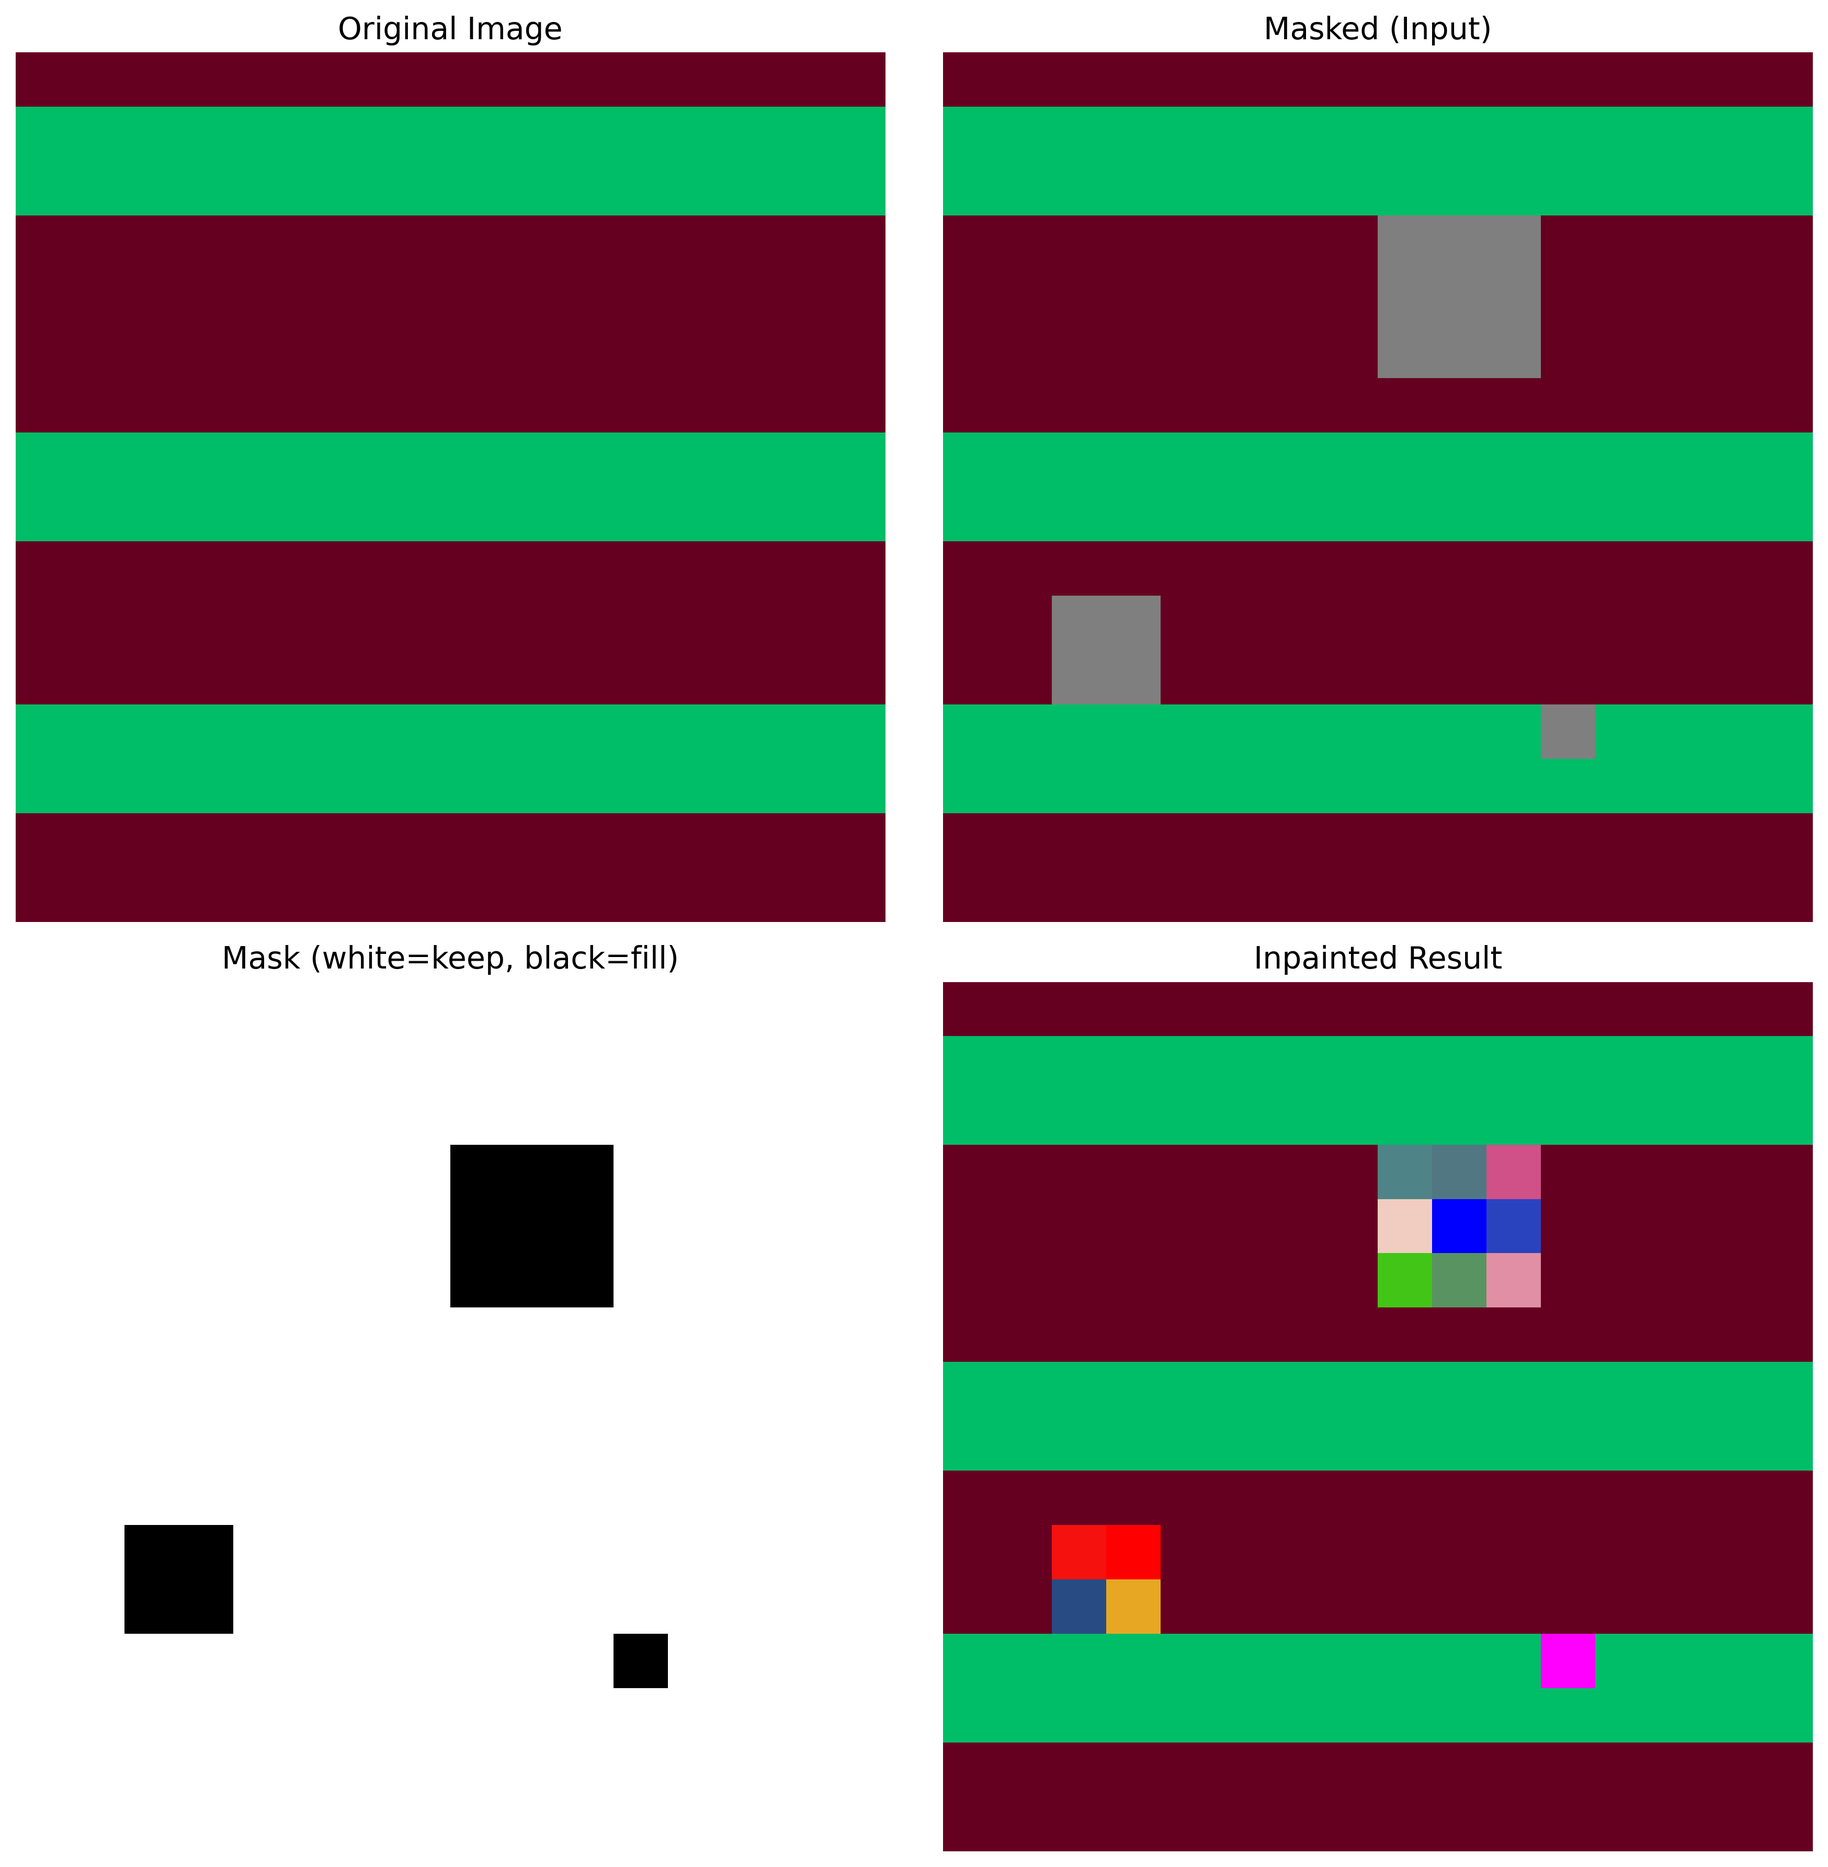
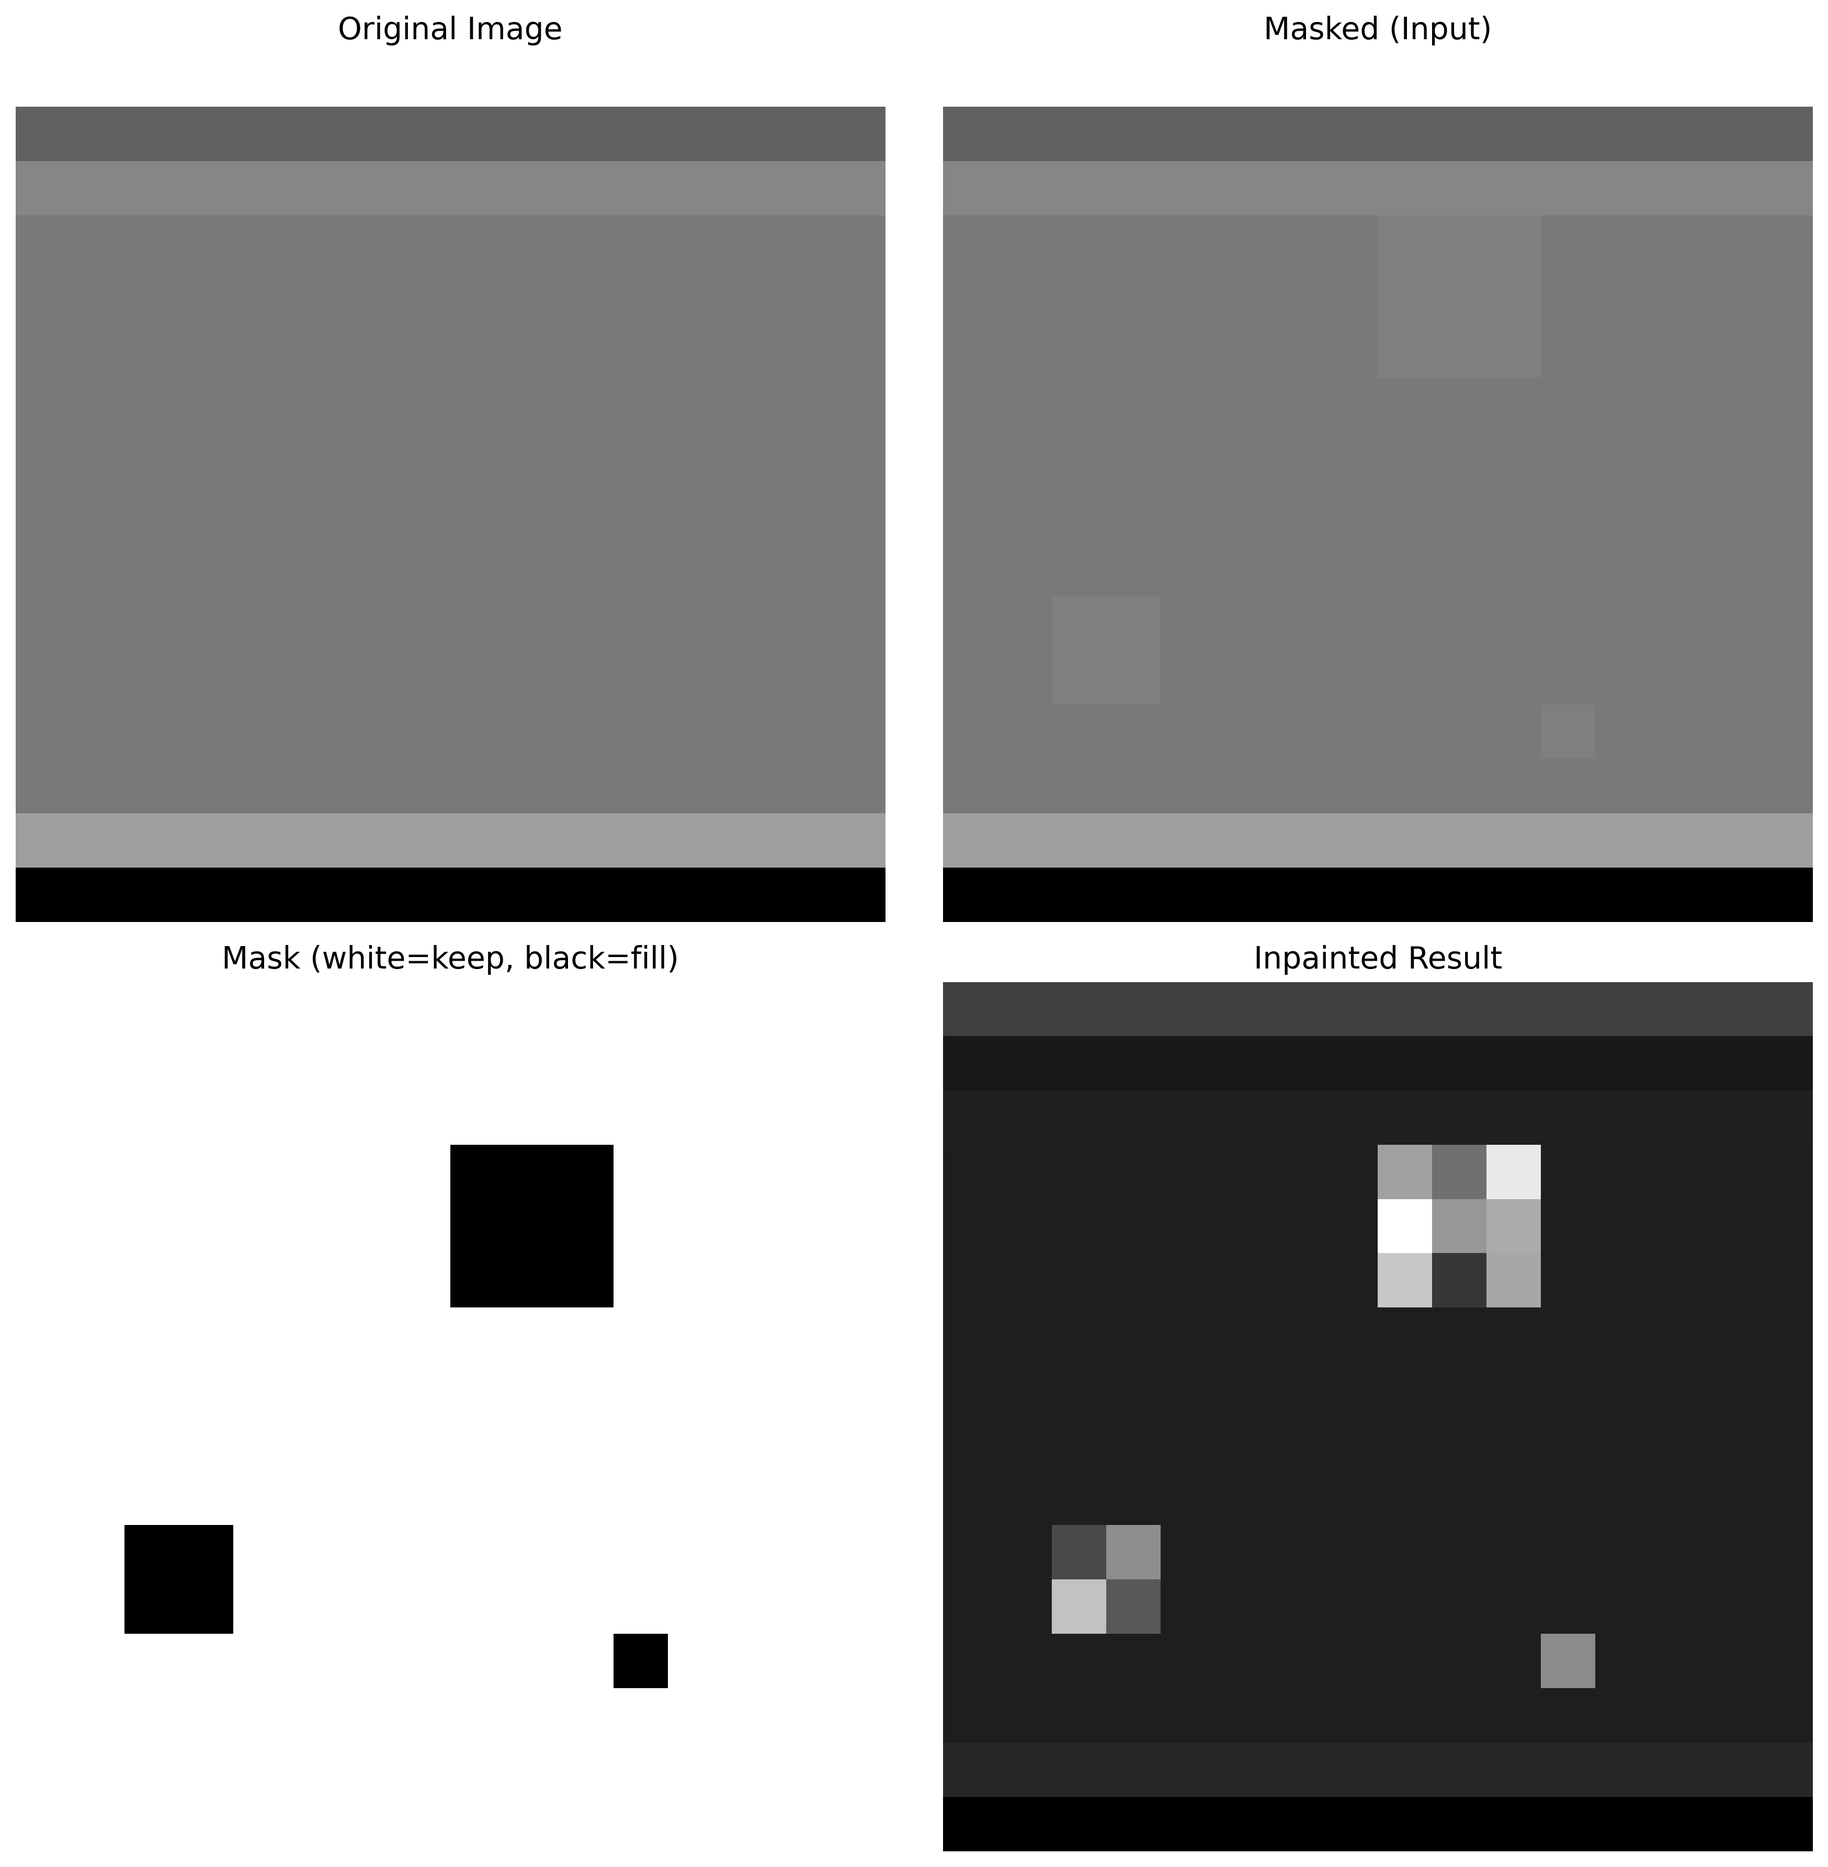
Using RED and blue

diff --git a/generate_patterns.py b/generate_patterns.py
@@ -3,6 +3,8 @@ Generate Synthetic Pattern Dataset
 ===================================
 Creates a diverse dataset of geometric patterns for inpainting training.
 
+Patterns use RED and BLUE colors for clear distinction.
+
 Patterns include:
 - Checkerboards (various sizes)
 - Stripes (horizontal, vertical, diagonal, varying widths)
@@ -21,53 +23,66 @@ from pathlib import Path
 from tqdm import tqdm
 
 
+# Color definitions: RED and BLUE
+RED = (255, 0, 0)
+BLUE = (0, 0, 255)
+
+
 def create_checkerboard(size=128, square_size=None):
-    """Create a checkerboard pattern."""
+    """Create a checkerboard pattern with red and blue."""
     if square_size is None:
         square_size = random.choice([4, 8, 16, 32])
     
-    img = np.zeros((size, size), dtype=np.uint8)
+    img = np.zeros((size, size, 3), dtype=np.uint8)
     for i in range(0, size, square_size):
         for j in range(0, size, square_size):
             if ((i // square_size) + (j // square_size)) % 2 == 0:
-                img[i:i+square_size, j:j+square_size] = 255
+                img[i:i+square_size, j:j+square_size] = RED
+            else:
+                img[i:i+square_size, j:j+square_size] = BLUE
     
     return img
 
 
 def create_stripes(size=128, orientation='horizontal', stripe_width=None):
-    """Create striped pattern."""
+    """Create striped pattern with red and blue."""
     if stripe_width is None:
         stripe_width = random.choice([2, 4, 8, 16, 32])
     
-    img = np.zeros((size, size), dtype=np.uint8)
+    img = np.zeros((size, size, 3), dtype=np.uint8)
     
     if orientation == 'horizontal':
         for i in range(0, size, stripe_width * 2):
-            img[i:i+stripe_width, :] = 255
+            img[i:i+stripe_width, :] = RED
+            if i + stripe_width < size:
+                img[i+stripe_width:i+stripe_width*2, :] = BLUE
     elif orientation == 'vertical':
         for j in range(0, size, stripe_width * 2):
-            img[:, j:j+stripe_width] = 255
+            img[:, j:j+stripe_width] = RED
+            if j + stripe_width < size:
+                img[:, j+stripe_width:j+stripe_width*2] = BLUE
     elif orientation == 'diagonal':
+        # Create diagonal stripes
+        img[:, :] = BLUE
         for i in range(-size, size * 2, stripe_width * 2):
             for x in range(size):
                 y = x + i
                 if 0 <= y < size:
                     for w in range(stripe_width):
                         if 0 <= y + w < size:
-                            img[y + w, x] = 255
+                            img[y + w, x] = RED
     
     return img
 
 
 def create_dots(size=128, dot_size=None, spacing=None):
-    """Create dot/circle pattern."""
+    """Create dot/circle pattern with red dots on blue background."""
     if dot_size is None:
         dot_size = random.choice([2, 4, 6, 8])
     if spacing is None:
         spacing = random.choice([12, 16, 20, 24, 32])
     
-    img = Image.new('L', (size, size), 0)
+    img = Image.new('RGB', (size, size), BLUE)
     draw = ImageDraw.Draw(img)
     
     for i in range(0, size, spacing):
@@ -76,34 +91,37 @@ def create_dots(size=128, dot_size=None, spacing=None):
             y0 = i - dot_size // 2
             x1 = j + dot_size // 2
             y1 = i + dot_size // 2
-            draw.ellipse([x0, y0, x1, y1], fill=255)
+            draw.ellipse([x0, y0, x1, y1], fill=RED)
     
     return np.array(img)
 
 
 def create_grid(size=128, line_width=None, spacing=None):
-    """Create grid pattern."""
+    """Create grid pattern with red lines on blue background."""
     if line_width is None:
         line_width = random.choice([1, 2, 3, 4])
     if spacing is None:
         spacing = random.choice([16, 20, 24, 32])
     
-    img = np.zeros((size, size), dtype=np.uint8)
+    img = np.zeros((size, size, 3), dtype=np.uint8)
+    img[:, :] = BLUE
     
     # Horizontal lines
     for i in range(0, size, spacing):
-        img[i:i+line_width, :] = 255
+        img[i:i+line_width, :] = RED
     
     # Vertical lines
     for j in range(0, size, spacing):
-        img[:, j:j+line_width] = 255
+        img[:, j:j+line_width] = RED
     
     return img
 
 
 def create_waves(size=128, orientation='horizontal'):
-    """Create wave pattern."""
-    img = np.zeros((size, size), dtype=np.uint8)
+    """Create wave pattern with red wave on blue background."""
+    img = np.zeros((size, size, 3), dtype=np.uint8)
+    img[:, :] = BLUE
+    
     amplitude = random.randint(10, 30)
     frequency = random.uniform(0.1, 0.3)
     thickness = random.choice([2, 4, 6, 8])
@@ -114,21 +132,21 @@ def create_waves(size=128, orientation='horizontal'):
             for t in range(-thickness//2, thickness//2 + 1):
                 y = y_center + t
                 if 0 <= y < size:
-                    img[y, x] = 255
+                    img[y, x] = RED
     else:  # vertical
         for y in range(size):
             x_center = int(size // 2 + amplitude * np.sin(frequency * y))
             for t in range(-thickness//2, thickness//2 + 1):
                 x = x_center + t
                 if 0 <= x < size:
-                    img[y, x] = 255
+                    img[y, x] = RED
     
     return img
 
 
 def create_concentric_circles(size=128):
-    """Create concentric circles."""
-    img = Image.new('L', (size, size), 0)
+    """Create concentric circles with red on blue background."""
+    img = Image.new('RGB', (size, size), BLUE)
     draw = ImageDraw.Draw(img)
     
     center = size // 2
@@ -139,14 +157,14 @@ def create_concentric_circles(size=128):
         radius = int(max_radius * (i + 1) / num_circles)
         draw.ellipse([center - radius, center - radius, 
                      center + radius, center + radius], 
-                     outline=255, width=random.choice([1, 2, 3]))
+                     outline=RED, width=random.choice([1, 2, 3]))
     
     return np.array(img)
 
 
 def create_concentric_squares(size=128):
-    """Create concentric squares."""
-    img = Image.new('L', (size, size), 0)
+    """Create concentric squares with red on blue background."""
+    img = Image.new('RGB', (size, size), BLUE)
     draw = ImageDraw.Draw(img)
     
     num_squares = random.randint(4, 8)
@@ -157,14 +175,16 @@ def create_concentric_squares(size=128):
         # Ensure we have valid coordinates
         if offset + line_width < size - offset:
             draw.rectangle([offset, offset, size - offset - 1, size - offset - 1], 
-                          outline=255, width=line_width)
+                          outline=RED, width=line_width)
     
     return np.array(img)
 
 
 def create_zigzag(size=128, orientation='horizontal'):
-    """Create zigzag pattern."""
-    img = np.zeros((size, size), dtype=np.uint8)
+    """Create zigzag pattern with red on blue background."""
+    img = np.zeros((size, size, 3), dtype=np.uint8)
+    img[:, :] = BLUE
+    
     amplitude = random.randint(8, 20)
     period = random.randint(16, 32)
     thickness = random.choice([2, 4, 6])
@@ -176,21 +196,21 @@ def create_zigzag(size=128, orientation='horizontal'):
             for t in range(-thickness//2, thickness//2 + 1):
                 y = y_center + t
                 if 0 <= y < size:
-                    img[y, x] = 255
+                    img[y, x] = RED
     else:
         for y in range(size):
             x_center = int(size // 2 + amplitude * (2 * ((y % period) / period) - 1))
             for t in range(-thickness//2, thickness//2 + 1):
                 x = x_center + t
                 if 0 <= x < size:
-                    img[y, x] = 255
+                    img[y, x] = RED
     
     return img
 
 
 def create_random_shapes(size=128):
-    """Create random geometric shapes."""
-    img = Image.new('L', (size, size), 0)
+    """Create random geometric shapes with red on blue background."""
+    img = Image.new('RGB', (size, size), BLUE)
     draw = ImageDraw.Draw(img)
     
     num_shapes = random.randint(3, 8)
@@ -202,12 +222,12 @@ def create_random_shapes(size=128):
         s = random.randint(10, 30)
         
         if shape_type == 'circle':
-            draw.ellipse([x - s, y - s, x + s, y + s], fill=255)
+            draw.ellipse([x - s, y - s, x + s, y + s], fill=RED)
         elif shape_type == 'rectangle':
-            draw.rectangle([x - s, y - s, x + s, y + s], fill=255)
+            draw.rectangle([x - s, y - s, x + s, y + s], fill=RED)
         else:  # triangle
             points = [(x, y - s), (x - s, y + s), (x + s, y + s)]
-            draw.polygon(points, fill=255)
+            draw.polygon(points, fill=RED)
     
     return np.array(img)
 
@@ -226,17 +246,6 @@ def create_mixed_pattern(size=128):
     else:
         img = create_grid(size)
     
-    # Optionally add another pattern with transparency
-    if random.random() > 0.5:
-        overlay_type = random.choice(['waves', 'concentric_circles'])
-        if overlay_type == 'waves':
-            overlay = create_waves(size, random.choice(['horizontal', 'vertical']))
-        else:
-            overlay = create_concentric_circles(size)
-        
-        # Blend
-        img = np.maximum(img, overlay // 2)
-    
     return img
 
 
@@ -251,6 +260,7 @@ def generate_pattern_dataset(output_dir='data', num_images=5000, size=128):
     print(f"Output: {output_path.absolute()}")
     print(f"Images: {num_images}")
     print(f"Size: {size}x{size}")
+    print(f"Colors: RED and BLUE")
     print()
     
     patterns = [
@@ -284,7 +294,7 @@ def generate_pattern_dataset(output_dir='data', num_images=5000, size=128):
         img_array = pattern_func(size)
         
         # Save
-        img = Image.fromarray(img_array, mode='L')
+        img = Image.fromarray(img_array, mode='RGB')
         img.save(output_path / f'pattern_{i:05d}_{pattern_name}.png')
     
     print("\n" + "=" * 60)
@@ -292,7 +302,7 @@ def generate_pattern_dataset(output_dir='data', num_images=5000, size=128):
     print("=" * 60)
     print(f"📊 Images: {num_images}")
     print(f"📁 Location: {output_path.absolute()}")
-    print(f"💾 Total size: ~{num_images * size * size / (1024*1024):.1f} MB")
+    print(f"💾 Total size: ~{num_images * size * size * 3 / (1024*1024):.1f} MB")
     print("\nYou can now run: python train_colab.py")
     print("=" * 60)
 

diff --git a/main/inpainting_inference.py b/main/inpainting_inference.py
@@ -17,12 +17,12 @@ from .utils import setup_cuda_device
 
 
 def load_and_preprocess_image(image_path: str, size: int = 16):
-    image = Image.open(image_path).convert('L')
+    image = Image.open(image_path).convert('RGB')
     
     transform = transforms.Compose([
         transforms.Resize((size, size), interpolation=transforms.InterpolationMode.LANCZOS),
         transforms.ToTensor(),
-        transforms.Normalize(mean=[0.5], std=[0.5])
+        transforms.Normalize(mean=[0.5, 0.5, 0.5], std=[0.5, 0.5, 0.5])
     ])
     
     return transform(image).unsqueeze(0)
@@ -107,8 +107,37 @@ def inpaint_image(image_path: str,
                 x = pred_x0
         
         result = x
+        
+        # Quantize to pure RED and BLUE colors in masked regions
+        result = quantize_to_red_blue(result, mask, device)
     
     display_results(image, masked_image, mask, result, save_result)
+    
+    return result
+
+
+def quantize_to_red_blue(image, mask, device):
+    """
+    Snap pixels in masked regions to pure RED or BLUE.
+    Uses Euclidean distance to determine closest color.
+    """
+    # Define pure colors in normalized space [-1, 1]
+    # RED = (1, -1, -1) and BLUE = (-1, -1, 1)
+    RED = torch.tensor([1.0, -1.0, -1.0], device=device).view(1, 3, 1, 1)
+    BLUE = torch.tensor([-1.0, -1.0, 1.0], device=device).view(1, 3, 1, 1)
+    
+    # Calculate distances to RED and BLUE
+    dist_to_red = torch.sum((image - RED) ** 2, dim=1, keepdim=True)
+    dist_to_blue = torch.sum((image - BLUE) ** 2, dim=1, keepdim=True)
+    
+    # Create mask for pixels closer to red
+    closer_to_red = dist_to_red < dist_to_blue
+    
+    # Create quantized version
+    quantized = torch.where(closer_to_red.expand_as(image), RED.expand_as(image), BLUE.expand_as(image))
+    
+    # Apply quantization only to masked regions (1 - mask are the inpainted areas)
+    result = image * mask + quantized * (1 - mask)
     
     return result
 

diff --git a/main/inpainting_dataset.py b/main/inpainting_dataset.py
@@ -22,9 +22,8 @@ class InpaintingDataset(Dataset):
         
         self.transform = transforms.Compose([
             transforms.Resize((image_size, image_size), interpolation=transforms.InterpolationMode.LANCZOS),
-            transforms.Grayscale(num_output_channels=1),
             transforms.ToTensor(),
-            transforms.Normalize(mean=[0.5], std=[0.5])
+            transforms.Normalize(mean=[0.5, 0.5, 0.5], std=[0.5, 0.5, 0.5])
         ])
     
     def _find_images(self, dataset_path):
@@ -91,10 +90,11 @@ class InpaintingDataset(Dataset):
     
     def __getitem__(self, idx):
         img_path = self.image_paths[idx]
-        image = Image.open(img_path).convert('L')
+        image = Image.open(img_path).convert('RGB')
         image_tensor = self.transform(image)
         
         mask = self.create_random_mask(self.image_size)
+        # Use gray (0.0) instead of black (-1.0) for masked regions to distinguish from black pattern areas
         masked_image = image_tensor * mask + torch.zeros_like(image_tensor) * (1 - mask)
         
         return {

diff --git a/main/inpainting_unet.py b/main/inpainting_unet.py
@@ -18,9 +18,9 @@ class InpaintingUNET(nn.Module):
             num_groups: int = 32,
             dropout_prob: float = 0.1,
             num_heads: int = 8,
-            input_channels: int = 1,
+            input_channels: int = 3,
             mask_channels: int = 1,
-            output_channels: int = 1,
+            output_channels: int = 3,
             time_steps: int = 1000):
         super().__init__()
         
